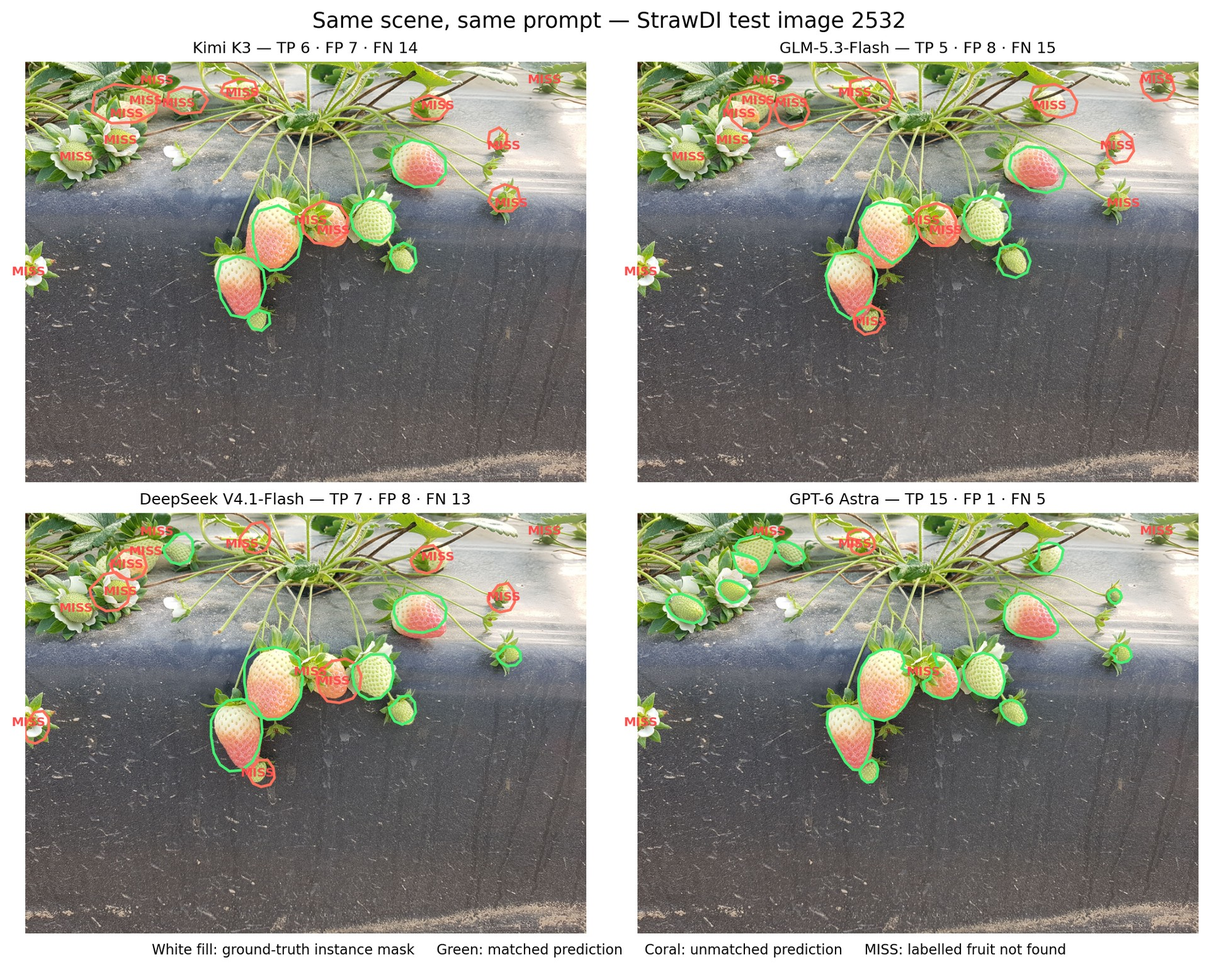
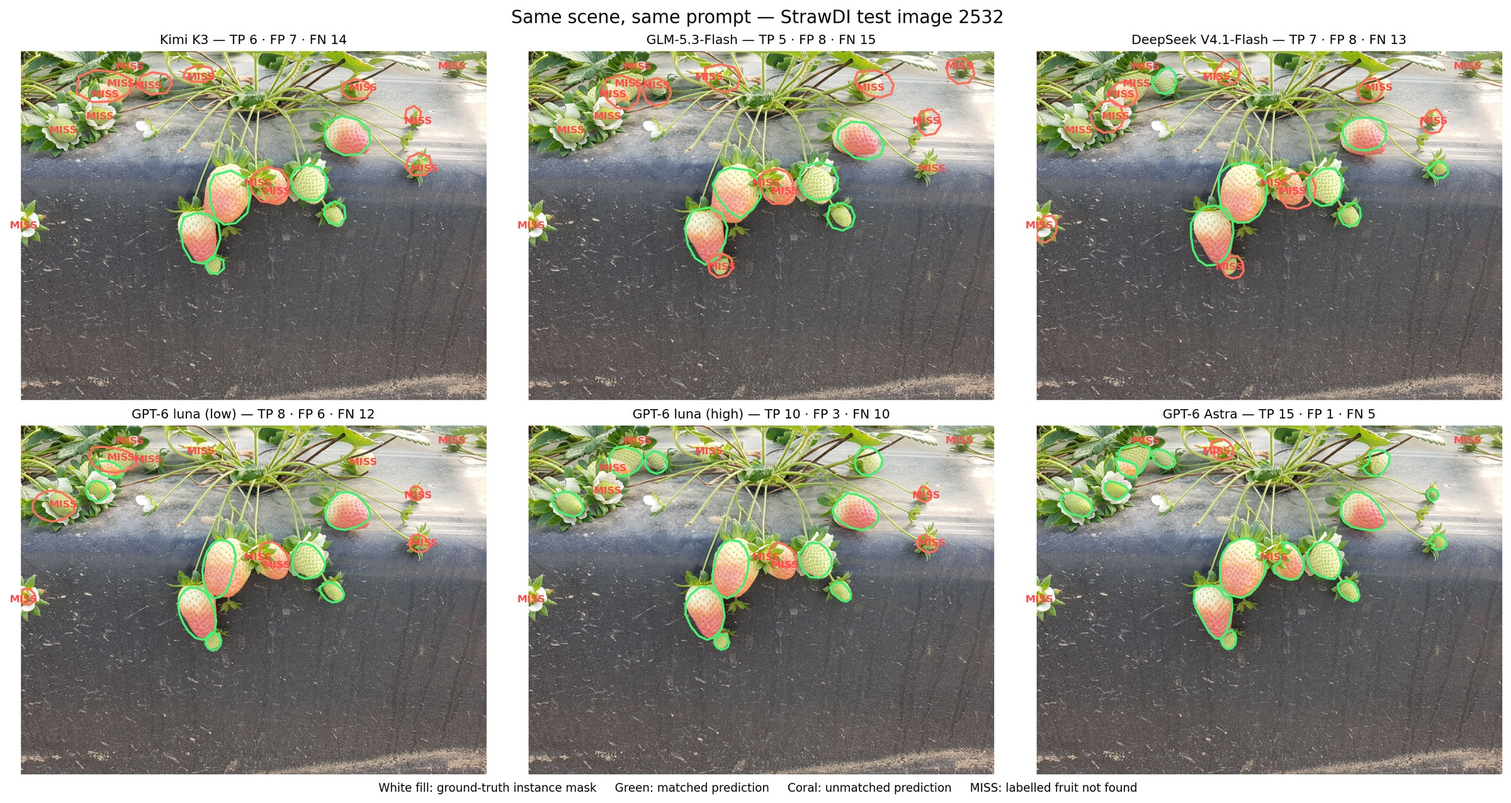
Add GPT-6 luna StrawDI results to VLM fruit detection post
- Metrics/benchmark tables, narrative, TL;DR updated for luna low+high
  (F1 77.1/78.7, mAP 38.5/40.0 — above other VLMs, below Astra and
  below the supervised benchmark's mAP)
- seg_scores, size_recall, tokens_latency regenerated with 6 configs;
  same-scene 2532 comparison now 6 panels
- Luna cost note (~$0.001/image, ~100x cheaper than Astra)
- Folded luna card walls + raw JSON blocks in the 2532 demo

diff --git a/_posts/2026-09-16-fruit-detection-is-solved-by-vlms.md b/_posts/2026-09-16-fruit-detection-is-solved-by-vlms.md
@@ -3,7 +3,7 @@ title: "Is Visual Fruit Detection Solved by Vision-Language Models, and What Rem
 date: 2026-09-16
 ---
 
-> **TL;DR** — I tested whether frontier vision-language models can perform fruit detection directly from raw images and a written prompt, without task-specific training. On all 200 images of the StrawDI test set, GPT-6 Astra achieved 60.1 segmentation mAP and 86.0 mean instance IoU — exceeding the dataset’s fully supervised Mask R-CNN benchmark in mAP (45.36) and nearly matching its IoU (87.7), despite using no StrawDI training data. The other VLMs we tested were substantially behind, suggesting that this is still a frontier-model capability rather than a general property of VLMs. Astra also showed surprisingly strong performance on small fruit and transferred qualitatively to difficult private scenes, while the same prompt could return masks together with attributes such as redness, occlusion, and graspability. Important limitations remain, especially very small fruit, latency, cost, local deployment, and dependence on a small number of frontier models. Fruit detection is not universally solved, but the starting point has changed dramatically: a strong VLM is now worth testing before collecting and labeling a new task-specific dataset.
+> **TL;DR** — I tested whether frontier vision-language models can perform fruit detection directly from raw images and a written prompt, without task-specific training. On all 200 images of the StrawDI test set, GPT-6 Astra achieved 60.1 segmentation mAP and 86.0 mean instance IoU — exceeding the dataset’s fully supervised Mask R-CNN benchmark in mAP (45.36) and nearly matching its IoU (87.7), despite using no StrawDI training data. The other VLMs we tested were substantially behind, and GPT-6 luna — the same generation's cheaper tier — closes only part of the gap (40.0 mAP), suggesting that this is still a frontier-model capability rather than a general property of VLMs. Astra also showed surprisingly strong performance on small fruit and transferred qualitatively to difficult private scenes, while the same prompt could return masks together with attributes such as redness, occlusion, and graspability. Important limitations remain, especially very small fruit, latency, cost, local deployment, and dependence on a small number of frontier models. Fruit detection is not universally solved, but the starting point has changed dramatically: a strong VLM is now worth testing before collecting and labeling a new task-specific dataset.
 
 Detecting fruit in images has been a long-standing challenge in agricultural computer vision. It is hard not because we cannot achieve high accuracy on a specific dataset, but because real-world scenarios are highly variable. No two orchards look the same, and the same type of fruit can look very different depending on the environment (weather, lighting, occlusion, etc.) and the fruit itself (variety and horticultural practices). Most deep learning-based fruit detection methods rely on large amounts of labelled data to cover the variability (distribution) in the real world. Detection in out-of-distribution (OOD) scenarios often fails. Unfortunately, due to the inherent variability of real-world conditions and data privacy issues, fruit detection always has to deal with OOD scenarios. This means that one often cannot deploy a model trained in one orchard directly to another orchard without fine-tuning it with new data.
 
@@ -46,6 +46,8 @@ The following models with corresponding reasoning effort (thinking) were evaluat
 | Kimi K3 | High |
 | GLM-5.3-Flash | Max |
 | DeepSeek V4.1-Flash | High |
+| GPT-6 luna | Low |
+| GPT-6 luna | High |
 | GPT-6 Astra | Low |
 
 
@@ -108,27 +110,43 @@ Before the numbers, here is what the output actually looks like. GPT-6 Astra's v
 | Kimi K3 | 77.7% | 64.8% | 70.7% | 39.9% | 62.0% | 30.9% | 0.75 (median 0.77) | 1.04 |
 | GLM | 75.0% | 61.0% | 67.3% | 28.4% | 58.2% | 24.3% | 0.72 (median 0.73) | 1.12 |
 | DeepSeek | 73.1% | 59.9% | 65.9% | 26.2% | 55.8% | 22.6% | 0.71 (median 0.72) | 1.11 |
+| GPT-6 luna (low) | 86.1% | 69.8% | 77.1% | 53.2% | 68.4% | 38.5% | 0.79 (median 0.81) | 1.34 |
+| GPT-6 luna (high) | 88.5% | 70.9% | 78.7% | 53.8% | 69.8% | 40.0% | 0.79 (median 0.81) | 1.25 |
 | **GPT-6 Astra** | **91.9%** | **83.8%** | **87.6%** | **75.1%** | **83.5%** | **60.1%** | **0.86** (median 0.89) | **0.75** |
 
 *All metrics at mask IoU; 200/200 images scored for every model.*
 
-GPT-6 Astra matches **948 of 1,132 labelled fruits** (84 unmatched predictions, 184 missed labels), exceeding the runner-up Kimi K3's F1 by **17.0 percentage points**. All four configurations returned valid responses for every test image, so no common-subset correction is needed.
+GPT-6 Astra matches **948 of 1,132 labelled fruits** (84 unmatched predictions, 184 missed labels), exceeding the runner-up GPT-6 luna (high)'s F1 by **8.9 percentage points**. All six configurations returned valid responses for every test image, so no common-subset correction is needed.
 
-![Segmentation precision, recall, F1, and F1 across IoU thresholds for the four configurations.](/assets/fruit_detection_is_solved_by_vlms/seg_scores.png)
+![Segmentation precision, recall, F1, and F1 across IoU thresholds for the six configurations.](/assets/fruit_detection_is_solved_by_vlms/seg_scores.png)
 
 *Figure 2. Left: precision, recall, and F1 at mask IoU ≥ 0.50. Right: F1 as the required IoU tightens — GPT's advantage grows with the localization requirement.*
 
-The same scene makes the gap visible without any numbers — here all four models answer the identical prompt on one crowded test image:
+The same scene makes the gap visible without any numbers — here all six models answer the identical prompt on one crowded test image:
 
-![The four models' segmentation output on the same crowded strawberry scene, StrawDI test image 2532.](/assets/fruit_detection_is_solved_by_vlms/same_scene_seg.jpg)
+![The six models' segmentation output on the same crowded strawberry scene, StrawDI test image 2532.](/assets/fruit_detection_is_solved_by_vlms/same_scene_seg.jpg)
 
-*Figure 3. StrawDI test image 2532, twenty labelled instances. GPT-6 Astra finds fifteen with one unmatched prediction; the other three models find five to eight and over-segment the cluster. Illustrative example, not a representative sample.*
+*Figure 3. StrawDI test image 2532, twenty labelled instances. GPT-6 Astra finds fifteen with one unmatched prediction; the other five models find five to ten and over-segment the cluster. Illustrative example, not a representative sample.*
 
 ### Full nine-field output on this image
 
 The figure shows only the geometry. Here is each model's complete output on this same image, rendered as an inventory — one card per reported fruit, with its visible-surface polygon, redness and occlusion, calyx/stem/graspable flags, and confidence (boxes and free-text descriptions omitted for clarity; the full JSON follows below):
 
 ![GPT-6 Astra's nine-field output on StrawDI test image 2532, one card per reported fruit.](/assets/fruit_detection_is_solved_by_vlms/demo_2532_gpt.jpg)
+
+<details markdown="1">
+<summary><strong>GPT-6 luna (high)</strong> — 13 fruit reported (10 matched, 3 unmatched)</summary>
+
+![GPT-6 luna (high)'s nine-field output on StrawDI test image 2532.](/assets/fruit_detection_is_solved_by_vlms/demo_2532_luna_high.jpg)
+
+</details>
+
+<details markdown="1">
+<summary><strong>GPT-6 luna (low)</strong> — 14 fruit reported (8 matched, 6 unmatched)</summary>
+
+![GPT-6 luna (low)'s nine-field output on StrawDI test image 2532.](/assets/fruit_detection_is_solved_by_vlms/demo_2532_luna_low.jpg)
+
+</details>
 
 <details markdown="1">
 <summary><strong>Kimi K3</strong> — 13 fruit reported (6 matched, 7 unmatched)</summary>
@@ -151,7 +169,7 @@ The figure shows only the geometry. Here is each model's complete output on this
 
 </details>
 
-*The four models' complete responses on StrawDI test image 2532, one card per reported fruit (largest first, as the prompt requests). Cards are rendered from the raw model outputs below, unedited.*
+*The six models' complete responses on StrawDI test image 2532, one card per reported fruit (largest first, as the prompt requests). Cards are rendered from the raw model outputs below, unedited.*
 
 And the same responses verbatim, exactly as returned by each model:
 
@@ -175,6 +193,51 @@ And the same responses verbatim, exactly as returned by each model:
 {"bbox": [396.0, 440.0, 435.0, 486.0], "polygon": [[410, 449], [421, 444], [428, 449], [432, 460], [430, 474], [422, 483], [412, 484], [403, 477], [399, 465], [402, 457]], "redness_pct": 0, "occlusion_pct": 26, "calyx_visible": true, "peduncle_visible": false, "graspable": false, "confidence_pct": 99, "description": "Small green fruit peeking from behind the bottom tip of the long red strawberry. Its lower body is visible, while the neighboring fruit hides its upper-left portion."}
 {"bbox": [846.0, 235.0, 890.0, 272.0], "polygon": [[858, 240], [869, 236], [880, 240], [886, 248], [888, 258], [881, 266], [869, 269], [859, 266], [857, 257], [850, 252]], "redness_pct": 0, "occlusion_pct": 15, "calyx_visible": true, "peduncle_visible": true, "graspable": true, "confidence_pct": 100, "description": "Small green fruit on a long stem at the far right, level with the central cluster's shoulders. Sepals overlap its left edge, but most of the rounded seeded body is visible."}
 {"bbox": [844.0, 137.0, 872.0, 165.0], "polygon": [[852, 140], [860, 137], [867, 142], [870, 149], [867, 157], [860, 163], [852, 160], [847, 153], [846, 146]], "redness_pct": 0, "occlusion_pct": 20, "calyx_visible": true, "peduncle_visible": true, "graspable": false, "confidence_pct": 97, "description": "Tiny dark-green developing strawberry above the other far-right green fruit. Its small body sits within pointed sepals at the end of a curved stalk."}
+```
+
+</details>
+
+<details markdown="1">
+<summary><strong>GPT-6 luna (low)</strong> — 14 fruit reported (8 matched, 6 unmatched)</summary>
+
+```json
+{"bbox": [391.0, 244.0, 466.0, 375.0], "polygon": [[430, 248], [446, 250], [458, 259], [464, 275], [465, 296], [459, 316], [453, 339], [444, 359], [432, 371], [419, 374], [406, 365], [399, 350], [394, 333], [393, 313], [397, 291], [403, 273], [413, 258], [422, 251]], "redness_pct": 47, "occlusion_pct": 7, "calyx_visible": true, "peduncle_visible": false, "graspable": true, "confidence_pct": 99, "description": "Large hanging fruit near the center-left, pale cream across the top and orange-red toward the bottom. A few green sepals overlap its upper edge; it is otherwise clearly exposed."}
+{"bbox": [339.0, 350.0, 424.0, 465.0], "polygon": [[365, 351], [383, 352], [399, 361], [410, 378], [418, 399], [423, 423], [420, 444], [408, 459], [394, 464], [378, 460], [363, 446], [351, 427], [343, 407], [340, 386], [346, 369], [355, 357]], "redness_pct": 56, "occlusion_pct": 9, "calyx_visible": true, "peduncle_visible": false, "graspable": true, "confidence_pct": 99, "description": "Elongated fruit hanging below the large central-left berry, cream-yellow at the top and deepening to red near its tip. Leaves and the neighboring fruit partly cover its upper portion."}
+{"bbox": [515.0, 251.0, 581.0, 307.0], "polygon": [[520, 258], [532, 253], [545, 252], [557, 258], [567, 268], [579, 281], [581, 291], [574, 300], [560, 305], [545, 307], [532, 302], [521, 292], [516, 279]], "redness_pct": 42, "occlusion_pct": 18, "calyx_visible": true, "peduncle_visible": false, "graspable": false, "confidence_pct": 98, "description": "Small round fruit near the center, mostly orange with a pale yellow-green patch across its upper-left side. Green sepals from its calyx overlap the top and left edges, and it is pressed close to adjacent fruit."}
+{"bbox": [586.0, 255.0, 660.0, 332.0], "polygon": [[600, 259], [617, 256], [633, 261], [645, 273], [654, 287], [659, 301], [655, 314], [645, 324], [630, 330], [614, 331], [601, 326], [591, 315], [587, 300], [589, 282]], "redness_pct": 3, "occlusion_pct": 17, "calyx_visible": true, "peduncle_visible": false, "graspable": false, "confidence_pct": 99, "description": "Pale green, rounded fruit at the center-right, with a slightly lighter yellow-green face. Its calyx and nearby leaves obscure parts of the upper and left edges; it touches the neighboring orange fruit."}
+{"bbox": [652.0, 143.0, 758.0, 227.0], "polygon": [[689, 146], [708, 144], [727, 150], [742, 162], [752, 177], [757, 192], [752, 204], [739, 214], [721, 221], [702, 226], [684, 223], [669, 215], [661, 203], [659, 187], [666, 170], [676, 157]], "redness_pct": 63, "occlusion_pct": 3, "calyx_visible": true, "peduncle_visible": false, "graspable": true, "confidence_pct": 99, "description": "Distinct mid-sized fruit hanging in the upper-right area, pale yellow at the top fading through orange to red along the lower-right side. Its green calyx is visible behind the upper-left edge, with little obstruction to the fruit body."}
+{"bbox": [645.0, 339.0, 701.0, 383.0], "polygon": [[661, 341], [673, 340], [684, 345], [694, 354], [700, 365], [697, 375], [687, 381], [675, 383], [664, 378], [655, 369], [648, 359], [647, 350]], "redness_pct": 2, "occlusion_pct": 24, "calyx_visible": true, "peduncle_visible": false, "graspable": false, "confidence_pct": 97, "description": "Small pale green fruit below the central cluster, partly crossed by its leafy calyx and nearby stems. Most of its body is visible, though the foliage makes it awkward to approach."}
+{"bbox": [833.0, 236.0, 887.0, 275.0], "polygon": [[849, 238], [861, 237], [873, 241], [883, 250], [886, 260], [880, 269], [869, 274], [857, 273], [846, 267], [840, 257], [843, 247]], "redness_pct": 1, "occlusion_pct": 17, "calyx_visible": true, "peduncle_visible": false, "graspable": false, "confidence_pct": 98, "description": "Small green fruit on the far right, with a bumpy rounded body and a leafy calyx draped over its top. A thin stem and surrounding foliage are close by."}
+{"bbox": [839.0, 131.0, 872.0, 164.0], "polygon": [[850, 132], [860, 132], [868, 138], [871, 147], [867, 155], [858, 162], [849, 161], [843, 154], [842, 145], [845, 137]], "redness_pct": 1, "occlusion_pct": 26, "calyx_visible": true, "peduncle_visible": false, "graspable": false, "confidence_pct": 96, "description": "Tiny green fruit near the upper-right, mostly visible beneath a leafy calyx, with a narrow stem extending away from it. It is small and tucked among the plant's branching stems."}
+{"bbox": [397.0, 448.0, 435.0, 487.0], "polygon": [[410, 450], [421, 449], [429, 455], [434, 465], [432, 476], [424, 485], [414, 487], [405, 482], [400, 473], [400, 462]], "redness_pct": 0, "occlusion_pct": 38, "calyx_visible": true, "peduncle_visible": false, "graspable": false, "confidence_pct": 91, "description": "Small green fruit peeking out below the elongated red-and-cream berry. Leaves and the larger fruit hide much of it, leaving a green lower portion visible."}
+{"bbox": [155.0, 76.0, 224.0, 113.0], "polygon": [[170, 78], [184, 76], [200, 80], [213, 88], [220, 98], [222, 106], [216, 111], [203, 113], [188, 110], [174, 104], [162, 96], [158, 87]], "redness_pct": 28, "occlusion_pct": 18, "calyx_visible": true, "peduncle_visible": false, "graspable": false, "confidence_pct": 96, "description": "Partly hidden fruit near the upper-left, showing a cream-to-orange body with orange coloration concentrated on its right side. Green leaves and stems cover portions of it, and its calyx is visible around the top."}
+{"bbox": [140.0, 44.0, 253.0, 103.0], "polygon": [[155, 48], [175, 46], [199, 48], [221, 53], [239, 61], [249, 72], [250, 82], [241, 91], [224, 98], [203, 102], [182, 99], [163, 91], [151, 79], [147, 66]], "redness_pct": 0, "occlusion_pct": 48, "calyx_visible": true, "peduncle_visible": false, "graspable": false, "confidence_pct": 96, "description": "Broad, pale green bumpy fruit along the upper-left edge, partly hidden behind leaves and stems. Only much of its lower and right side is clear, with its leafy calyx blending into the surrounding foliage."}
+{"bbox": [0.0, 132.0, 119.0, 210.0], "polygon": [[37, 151], [52, 143], [71, 140], [90, 146], [107, 158], [116, 171], [115, 184], [105, 195], [88, 204], [68, 208], [49, 203], [34, 194], [25, 181], [26, 167]], "redness_pct": 0, "occlusion_pct": 28, "calyx_visible": true, "peduncle_visible": false, "graspable": false, "confidence_pct": 98, "description": "Large pale green fruit on the left side, partly masked by leaves around its left and upper edges. Its bumpy light-green body is mostly visible beneath the foliage."}
+{"bbox": [138.0, 119.0, 190.0, 164.0], "polygon": [[152, 122], [164, 120], [177, 124], [186, 133], [189, 144], [185, 154], [176, 161], [164, 164], [152, 159], [144, 150], [141, 139], [145, 129]], "redness_pct": 0, "occlusion_pct": 52, "calyx_visible": true, "peduncle_visible": false, "graspable": false, "confidence_pct": 90, "description": "Small pale green fruit near the upper-left cluster, mostly hidden behind white petals and green sepals. A limited area of its rounded, bumpy body shows through the foliage."}
+{"bbox": [0.0, 353.0, 31.0, 389.0], "polygon": [[0, 357], [11, 353], [21, 356], [29, 364], [31, 373], [27, 382], [18, 388], [8, 387], [1, 381], [0, 373]], "redness_pct": 0, "occlusion_pct": 66, "calyx_visible": true, "peduncle_visible": false, "graspable": false, "confidence_pct": 83, "description": "A small pale green fruit is clipped by the left edge below the main left cluster. Most of it is outside the frame or hidden by the flower and leaves, with only a partial body visible."}
+```
+
+</details>
+
+
+
+<details markdown="1">
+<summary><strong>GPT-6 luna (high)</strong> — 13 fruit reported (10 matched, 3 unmatched)</summary>
+
+```json
+{"bbox": [397.0, 245.0, 478.0, 375.0], "polygon": [[435, 248], [456, 251], [469, 266], [477, 288], [474, 317], [464, 345], [447, 366], [429, 374], [411, 366], [400, 346], [397, 325], [402, 299], [410, 273], [421, 256]], "redness_pct": 52, "occlusion_pct": 18, "calyx_visible": true, "peduncle_visible": true, "graspable": true, "confidence_pct": 99, "description": "Large hanging fruit near the center-left, pale cream at the top with a broad orange-red flush over the lower half. Leaves and the calyx overlap parts of its upper edge."}
+{"bbox": [338.0, 347.0, 425.0, 465.0], "polygon": [[370, 350], [390, 350], [408, 363], [420, 385], [424, 414], [417, 441], [400, 459], [386, 464], [367, 455], [351, 435], [340, 410], [339, 387], [350, 367]], "redness_pct": 64, "occlusion_pct": 17, "calyx_visible": true, "peduncle_visible": true, "graspable": true, "confidence_pct": 99, "description": "Large lower-center-left fruit, cream near the stem end and strongly red over most of its lower half. Leaves and a small green berry partly crowd its upper-right side."}
+{"bbox": [658.0, 144.0, 758.0, 227.0], "polygon": [[690, 146], [710, 149], [732, 159], [748, 173], [757, 190], [755, 207], [742, 219], [722, 226], [698, 221], [679, 211], [663, 197], [658, 182], [668, 165]], "redness_pct": 48, "occlusion_pct": 8, "calyx_visible": true, "peduncle_visible": true, "graspable": true, "confidence_pct": 99, "description": "Prominent fruit at upper right, mostly pale cream with a red-orange blush concentrated on its right and lower side. Its leafy calyx is visible at the left end, with a few leaves near the outline."}
+{"bbox": [583.0, 251.0, 657.0, 332.0], "polygon": [[611, 254], [630, 255], [645, 267], [655, 285], [656, 303], [646, 320], [629, 330], [609, 328], [596, 316], [587, 299], [585, 280], [596, 264]], "redness_pct": 2, "occlusion_pct": 15, "calyx_visible": true, "peduncle_visible": true, "graspable": true, "confidence_pct": 99, "description": "Medium-sized pale green, dotted fruit in the central cluster. Leaves and the large calyx overlap its upper and left edges."}
+{"bbox": [518.0, 251.0, 581.0, 307.0], "polygon": [[538, 253], [554, 258], [570, 269], [579, 282], [579, 294], [569, 303], [553, 306], [538, 301], [527, 292], [519, 280], [523, 268]], "redness_pct": 44, "occlusion_pct": 49, "calyx_visible": true, "peduncle_visible": true, "graspable": false, "confidence_pct": 95, "description": "Partly hidden fruit just right of the large central berry, with an orange-red lower-right area and a lighter top. A large calyx and neighboring fruit obscure much of it."}
+{"bbox": [651.0, 335.0, 700.0, 383.0], "polygon": [[671, 339], [682, 343], [691, 353], [698, 365], [697, 375], [688, 381], [678, 379], [667, 371], [657, 362], [653, 351], [660, 343]], "redness_pct": 1, "occlusion_pct": 43, "calyx_visible": true, "peduncle_visible": true, "graspable": false, "confidence_pct": 97, "description": "Small green fruit below the upper-right berry, partly screened by its leaves and nearby stems. It hangs at the edge of the central cluster."}
+{"bbox": [172.0, 44.0, 248.0, 112.0], "polygon": [[191, 46], [214, 48], [234, 54], [246, 66], [245, 82], [235, 96], [218, 107], [198, 110], [184, 102], [177, 89], [174, 71], [180, 56]], "redness_pct": 17, "occlusion_pct": 46, "calyx_visible": true, "peduncle_visible": true, "graspable": false, "confidence_pct": 91, "description": "Partly concealed fruit in the upper-left foliage, pale yellow-green with an orange patch visible on its lower-right side. Leaves hide much of its body."}
+{"bbox": [704.0, 43.0, 768.0, 112.0], "polygon": [[728, 45], [746, 49], [759, 60], [766, 75], [763, 89], [751, 101], [735, 109], [720, 105], [710, 95], [706, 81], [709, 65], [718, 52]], "redness_pct": 0, "occlusion_pct": 54, "calyx_visible": true, "peduncle_visible": true, "graspable": false, "confidence_pct": 91, "description": "Pale green fruit high in the image, mostly screened by the canopy; its dotted surface shows through between leaves. The body is largely hidden behind foliage."}
+{"bbox": [46.0, 140.0, 121.0, 197.0], "polygon": [[75, 142], [91, 145], [105, 154], [115, 168], [119, 181], [111, 192], [97, 197], [80, 193], [65, 185], [54, 174], [49, 161], [57, 150]], "redness_pct": 0, "occlusion_pct": 47, "calyx_visible": true, "peduncle_visible": true, "graspable": false, "confidence_pct": 94, "description": "Green fruit at the left among flowers and leaves, with only part of its body visible behind the foliage. Its calyx and surrounding leaves obscure much of the outline."}
+{"bbox": [250.0, 53.0, 301.0, 105.0], "polygon": [[269, 55], [282, 58], [294, 67], [300, 78], [298, 91], [289, 100], [276, 104], [263, 99], [254, 89], [251, 76], [257, 64]], "redness_pct": 0, "occlusion_pct": 72, "calyx_visible": false, "peduncle_visible": true, "graspable": false, "confidence_pct": 78, "description": "Small pale green, dotted fruit partly tucked beneath leaves in the upper-left canopy, immediately right of the orange-patched fruit. Most of its body is obscured."}
+{"bbox": [835.0, 235.0, 888.0, 276.0], "polygon": [[854, 237], [865, 241], [875, 250], [884, 260], [885, 267], [876, 273], [865, 275], [853, 270], [843, 262], [839, 252], [845, 243]], "redness_pct": 0, "occlusion_pct": 26, "calyx_visible": true, "peduncle_visible": true, "graspable": true, "confidence_pct": 96, "description": "Small green fruit hanging at the right side of the image, partly bordered by leaves. Its pale dotted surface is visible beneath the calyx."}
+{"bbox": [837.0, 130.0, 873.0, 166.0], "polygon": [[851, 132], [860, 134], [868, 141], [872, 150], [870, 159], [863, 164], [854, 165], [845, 160], [840, 153], [843, 144]], "redness_pct": 0, "occlusion_pct": 38, "calyx_visible": true, "peduncle_visible": true, "graspable": false, "confidence_pct": 93, "description": "Tiny green fruit near the upper-right side, partly hidden by a leaf and its calyx. Only a small portion of its body is exposed."}
+{"bbox": [400.0, 450.0, 435.0, 486.0], "polygon": [[414, 452], [424, 454], [431, 461], [434, 470], [431, 479], [424, 484], [415, 485], [407, 480], [402, 472], [404, 462]], "redness_pct": 0, "occlusion_pct": 42, "calyx_visible": true, "peduncle_visible": true, "graspable": false, "confidence_pct": 93, "description": "Small green fruit peeking out beneath the large red-and-cream fruit. Leaves and the larger fruit hide much of it."}
 ```
 
 </details>
@@ -252,20 +315,22 @@ The StrawDI paper's benchmark is exactly this task on exactly this split: Mask R
 | --- | --- | --- | ---: | ---: |
 | Mask R-CNN (original paper) | 2,800 StrawDI images | test (200 images) | 45.36 | 87.70 |
 | Kimi K3, zero-shot | none | test (200 images) | 30.9 | 74.9 |
+| GPT-6 luna (low), zero-shot | none | test (200 images) | 38.5 | 78.6 |
+| GPT-6 luna (high), zero-shot | none | test (200 images) | 40.0 | 78.7 |
 | **GPT-6 Astra, zero-shot** | **none** | **test (200 images)** | **60.1** | **86.0** |
 | GPT-6 Astra, zero-shot | none | val (100 images) | 61.3 | 86.9 |
 
 *The paper's numbers are literature reference points, not reruns: the AP protocol differs (all-points interpolation here) and our polygons are limited to 32 vertices. But the task, the output representation, the ground truth, and the test split are the same. The validation row comes from an earlier 100-image batch of the same configuration, included to show the result replicates across splits.*
 
-**A general-purpose VLM with no task-specific training exceeds the fully supervised Mask R-CNN's segmentation mAP on its own test split (60.1 vs 45.36) and lands within two points of its mean instance IoU (86.0 vs 87.7)** — With the validation-split run (61.3 / 86.9) showing the same profile, this is the strongest evidence presented in this article. The other VLMs are still far behind (best non-GPT 6 Astra: Kimi K3 at mAP 30.9 and mean IoU 74.9), suggesting that this level of performance is, for now, a frontier-model capability rather than a general property of VLMs. At the same time, we look forward to seeing whether the next generation of VLMs from other providers, including open-source models, can approach or match this level of performance.
+**A general-purpose VLM with no task-specific training exceeds the fully supervised Mask R-CNN's segmentation mAP on its own test split (60.1 vs 45.36) and lands within two points of its mean instance IoU (86.0 vs 87.7)** — With the validation-split run (61.3 / 86.9) showing the same profile, this is the strongest evidence presented in this article. The other VLMs are still far behind, and even GPT-6 luna — the cheaper tier of the same generation — tops out at mAP 40.0 and mean IoU 78.7, still below the supervised specialist's mAP: this level of performance remains, for now, an Astra-specific capability rather than a general property of VLMs. At the same time, we look forward to seeing whether the next generation of VLMs from other providers, including open-source models, can approach or match this level of performance.
 
 ### Small fruit remain challenging — but Astra is already much stronger
 
-Small fruit are still the most difficult category, but GPT-6 Astra performs substantially better than the other VLMs. Its size-stratified mask recall is 338/338 for large fruit, 513/542 for medium fruit, and 97/252 for small fruit (38.5%). While the recall on small fruit is clearly lower than on medium and large fruit, it is still striking compared with the other models, which detect only 7–14 of the 252 small instances.
+Small fruit are still the most difficult category, but GPT-6 Astra performs substantially better than the other VLMs. Its size-stratified mask recall is 338/338 for large fruit, 513/542 for medium fruit, and 97/252 for small fruit (38.5%). While the recall on small fruit is clearly lower than on medium and large fruit, it is still striking compared with the other models, which detect only 7–32 of the 252 small instances (the best non-Astra being GPT-6 luna high at 32).
 
 This suggests that GPT-6 Astra has made a significant step forward even on small-object detection, although very small and weakly visible fruit remain one of the clearest failure modes. In other words, small fruit are no longer simply a case where all VLMs fail similarly — Astra shows a substantial capability gap here as well.
 
-![Recall by visible instance size for the four configurations.](/assets/fruit_detection_is_solved_by_vlms/size_recall.png)
+![Recall by visible instance size for the six configurations.](/assets/fruit_detection_is_solved_by_vlms/size_recall.png)
 
 *Figure 4. Recall at mask IoU ≥ 0.50 by visible mask area (small < 1,024 px²; medium 1,024–9,215 px²; large ≥ 9,216 px²). Labels give matched/total instances.*
 
@@ -391,11 +456,11 @@ Even the runner-up models' output shows the flexibility that makes this paradigm
 
 ### Latency and cost are far from a local detector
 
-Recorded mean call time per scheduled image: **76.2 s (Kimi K3), 89.4 s (GLM), 25.5 s (DeepSeek), 48.4 s (GPT)**, including CLI overhead and recorded retries. For scale, Ultralytics reports **1.5–11.3 ms** for YOLO11 on a T4 GPU with TensorRT — different hardware, resolution, and workload, so not a controlled comparison, but the gap is four orders of magnitude. [12]
+Recorded mean call time per scheduled image: **76.2 s (Kimi K3), 89.4 s (GLM), 25.5 s (DeepSeek), 70.9 s (GPT-6 luna low), 62.1 s (GPT-6 luna high), 48.4 s (GPT-6 Astra)**, including CLI overhead and recorded retries. For scale, Ultralytics reports **1.5–11.3 ms** for YOLO11 on a T4 GPU with TensorRT — different hardware, resolution, and workload, so not a controlled comparison, but the gap is four orders of magnitude. [12]
 
-GPT averaged **15,336 input and 944 output tokens per scheduled image**. At OpenAI's listed standard rates — $10 / $1 / $50 per million input / cached-input / output tokens, checked September 15, 2026 — that is **≈$0.20 per image** uncached or **≈$0.12** with recorded cache reads ($40.1 vs $23.9 per 200 images); GLM's recorded batch cost was $22.86 per 200 images at its provider's rates. These are token-based estimates, not invoices. [13] For an occasional scene audit this may be acceptable; for continuous video, the first things I would test are request frequency, output verbosity, and distillation into a local model.
+GPT averaged **15,336 input and 944 output tokens per scheduled image**. At OpenAI's listed standard rates — $10 / $1 / $50 per million input / cached-input / output tokens, checked September 15, 2026 — that is **≈$0.20 per image** uncached or **≈$0.12** with recorded cache reads ($40.1 vs $23.9 per 200 images); GLM's recorded batch cost was $22.86 per 200 images at its provider's rates. GPT-6 luna averaged ≈21,200 input tokens per image — over 75% of them cache reads — and 730–1,380 output tokens; at [luna's listed rates](https://openai.com/index/introducing-gpt-6-sol-and-luna/) ($0.10 / $0.01 / $0.50 per million input / cached-input / output tokens) that is **≈$0.001 per image** (≈$0.18–0.26 per 200 images) — roughly two orders of magnitude below Astra's cost, which is part of what makes the accuracy gap between the two tiers interesting. These are token-based estimates, not invoices. [13] For an occasional scene audit this may be acceptable; for continuous video, the first things I would test are request frequency, output verbosity, and distillation into a local model.
 
-![Recorded input and output token usage and mean call time for the four configurations.](/assets/fruit_detection_is_solved_by_vlms/tokens_latency.png)
+![Recorded input and output token usage and mean call time for the six configurations.](/assets/fruit_detection_is_solved_by_vlms/tokens_latency.png)
 
 *Figure 9. Means across all 200 scheduled images per model. Output includes reasoning tokens; GLM's input figure reflects its provider's accounting (cached tokens are not reported as input). Token accounting and CLI overhead differ across providers — these are operational measurements of the configurations used. Control calls excluded.*
 
